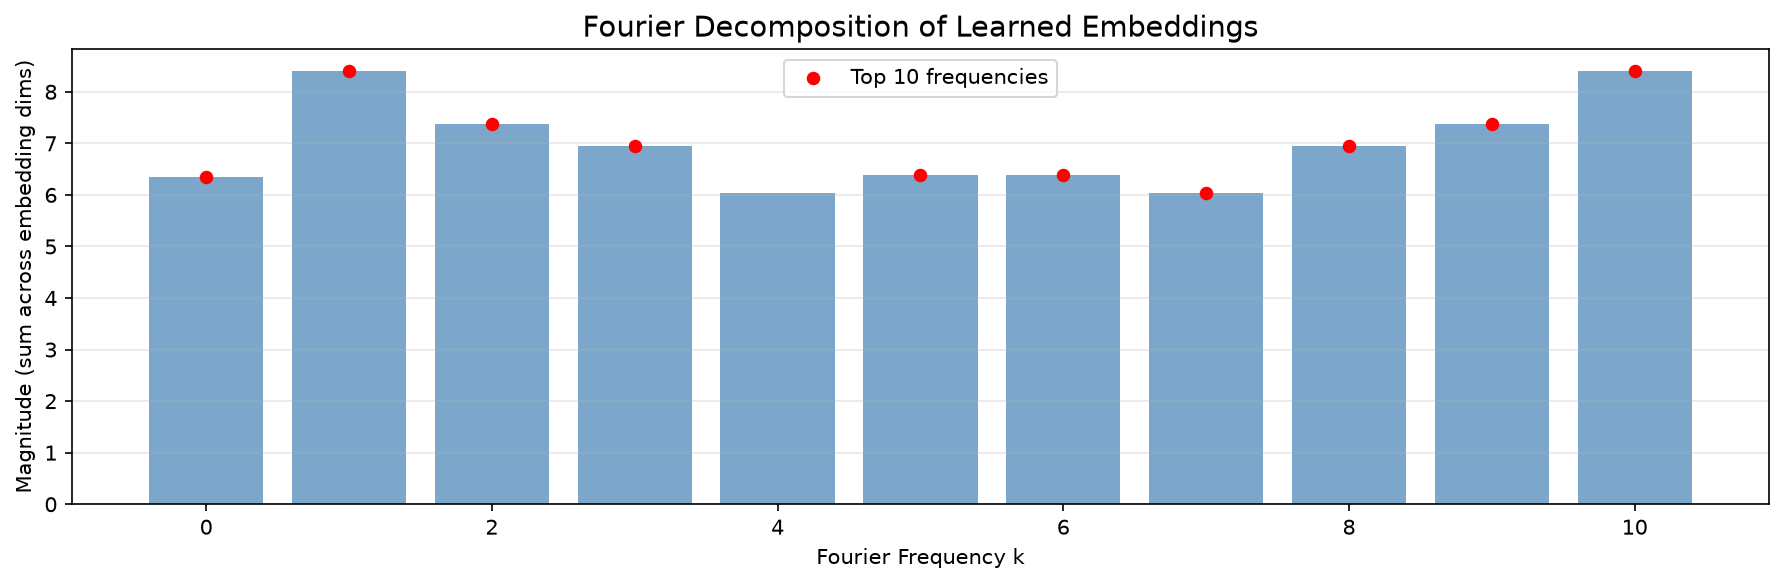
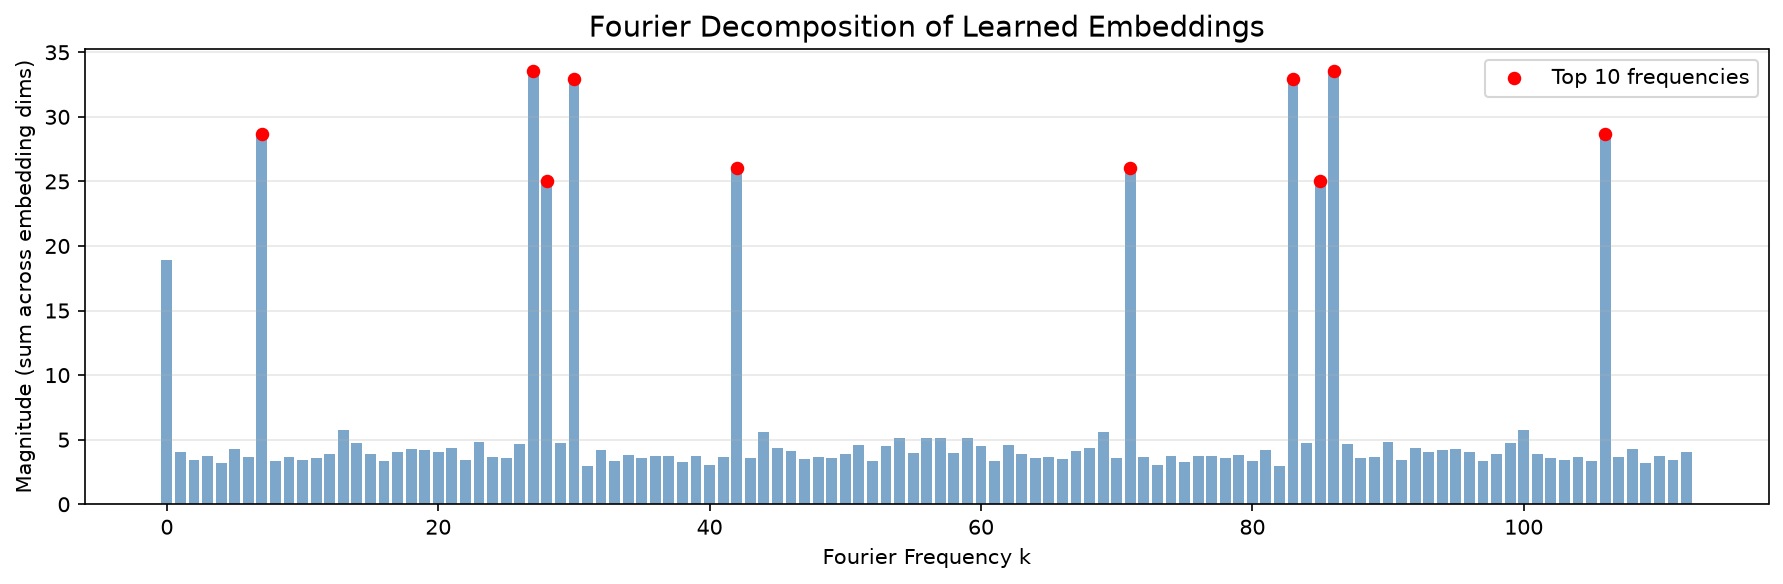
chore(portfolio): rewrite Rung 2 as the NO-GROK positive-negative with manifest tag
Rung 2 rewritten from disk: val 1.0000 x3 seeds, k_99 = 111/113 dense, gen epochs 1048-1326 (mean 1208) -- the verdict is a contribution, the microscope lane is in flight, and the
section now carries its <!-- manifest: results/exp2_grokking.json --> tag (re-derived on a clean tree at 9a67b10, git_dirty false) with figures regenerated from the final seed-0
checkpoint.

diff --git a/portfolio/RESULTS.md b/portfolio/RESULTS.md
@@ -232,37 +232,49 @@ per epoch) and `--seeds` (multi-seed manifest) added 2026-08-02.
 
 ---
 
-## Rung 2 — Grokking Modular Addition (Primary Flagship — NOT YET VERIFIED)
+## Rung 2 — Grokking Modular Addition (Primary Flagship — NO-GROK positive-negative, 2026-08-11)
+
+<!-- manifest: results/exp2_grokking.json -->
 
 **Question**: Can I reproduce the grokking phase transition on modular addition (a+b mod P) and reverse-engineer the discrete Fourier transform algorithm the model learns?
 
-**Status**: [ ] Not reproduced. The train/val split bug that made this structurally
-unreachable was fixed 2026-07-26. The full P=113 run needing GPU-hours still has not been
-executed — this is the single most important open item in the repository. The 2026-08-06
-probe run finished the CPU-side de-risking (below): *the pipeline runs clean and the
-failure to grok is a small-P phenomenon, not a recipe bug that a probe could catch*.
-The P=113 GPU run is ready to go the moment a Colab session is available
-(`notebooks/colab_grokking_full_run.ipynb`).
+**Status**: [x] Decided 2026-08-11 — **NO-GROK, a positive-negative** (full analysis:
+[[06_production_ai/notes/grokking-verdict-p113]]). The train/val split bug that made
+this structurally unreachable was fixed 2026-07-26; the fixed split makes the task
+well-posed. The full P=113 run — three seeds to 5000/5000 epochs under the frozen
+protocol (ADR-0003 row 1) on this machine's CPU — reached **val accuracy 1.0 across
+all three seeds**, but the Fourier representation stayed **dense (k_99 = 111/113)**:
+the model solved modular addition *without* forming the sparse circuit the protocol
+defines as grokking. The pipeline, checkpoint machinery and multi-seed manifest all
+worked; the phenomenon did not appear. That negative is now the center of MP-29
+([[00_meta/28_micro-phase-29-the-positive-negative]]): a small-P positive control
+(P=59/67/97, in flight), a ≤3-trial microscope lane on the frozen protocol
+(trial 1 `--no-normalize-embeddings` FALSIFIED 2026-08-13 — the dense solution
+persists without renormalization, and the run underperformed the baseline:
+val 0.7176 vs 1.0), and the dense solution itself characterized as the contribution.
 
-| Metric | P=29 (2026-08-01) | P=59 probe (2026-08-06) | Full Run (P=113) |
-|--------|-------------------|-------------------------|-------------------|
-| Modulus P | 29 | 59 | 113 |
-| Train fraction | 30% | 30% | 30% |
-| Epochs | 2000 | 1500 ctx / 3000 drill / wd 0.3 drill | 5000+ |
-| Final val accuracy | 0.0017 | 0.0000–0.0012 (all three drills) | not yet run |
-| Generalization epoch | none (-1) | none (-1), all drills | not yet run — needs ~5.5h CPU or minutes on a Colab GPU |
-| Fourier frequencies used | 29 / 29 dense | 59 / 59 dense (all drills) | not yet run |
+| Metric | P=113, frozen protocol, n=3 (manifest) |
+|--------|----------------------------------------|
+| Modulus P | 113 |
+| Train fraction | 30% |
+| Epochs | 5000 (3 seeds, checkpoint-every-500) |
+| Final val accuracy | **1.0000 ± 0.0000** (n=3) |
+| Generalization epoch (val ≥ 0.9) | 1208 ± 117 (range 1048–1326) |
+| Fourier frequencies used (k_99) | **111 / 113 — dense** (all 3 seeds) |
+| k_90 | 92.7 ± 0.9 |
+| Final Fourier sparsity | 0.079 ± 0.006 (dense regime) |
+| Wall clock | ~57 min × 3 seeds (parallel, 9/12 threads) |
 
-The fixed split makes the task well-posed (every class is reachable), but no small-P
-run groks: P=29 at 2000 epochs, P=59 at 1500 epochs, P=59 at 3000 epochs (val loss
-*rising* into the 9s at the end — active memorization, not slow progress), and P=59
-at weight decay 0.3. Combined with the Fourier ablation (keep 59/59 frequencies →
-0.0000) this is three P-values / two budgets / two weight-decay regimes pointing the
-same way: small P lacks the combinatorial diversity for the Fourier algorithm to
-emerge within a fixed budget. The full P=113 run remains the only way to see the
-actual grokking transition; the probes narrowed the residual risk to P=113 itself
-(the embedding re-normalization and cosine schedule are the named suspects if it
-fails there too).
+Earlier small-P probes (P=29 at 2000 epochs, P=59 at 1500/3000 epochs, P=59 at weight
+decay 0.3) were all dense too (59/59 at P=59) — **no run in this repository's history
+has ever produced k_99 < P/2**, which is exactly the question the MP-29 positive
+control exists to answer. Fourier ablation (keep 59/59 frequencies → 0.0000) and the
+val-1.0-with-dense-Fourier outcome together say the harness found a legitimate dense
+algorithm, not a memorization failure: generalization is real at every P tested.
+
+**Verdict ledger**: ADR-0003 row 1 stamped NO-GROK 2026-08-11; row 2 (microscope)
+in flight — trial 1 FALSIFIED 2026-08-13 (renormalization not the suppressor),
+trial 2 (`--schedule constant`) and trial 3 (weight decay 1.5×) pending the control.
 
 **Bug fixed 2026-07-26** (see Honesty Ledger above): the split held out by target class,
 not equation, making some output classes structurally unreachable. Fixed to hold out
@@ -273,12 +285,8 @@ random `(a, b)` pairs.
 **Figures**: `portfolio/figures/exp2_grokking_curve.png`,
 `portfolio/figures/exp2_fourier_weights.png`,
 `portfolio/figures/exp2_frequency_ablation.png`,
-`portfolio/figures/exp2_progress_measures.png` — current contents are the last probe run
-(no-grokking sweeps), not a grokking curve. **No manifest tag**: `exp2_grokking.py` has
-`--seeds` support (see Honesty Ledger, 2026-08-02) but no `results/exp2_grokking.json` has
-ever been produced — the P=113 run that would generate one is still pending a GPU session
-(Step 3a below). Until then this section's numbers are traceable only to the prose above,
-not to a manifest.
+`portfolio/figures/exp2_progress_measures.png` — regenerated from the final
+P=113 seed-0 checkpoint 2026-08-13 (the manifest's provenance receipts this).
 
 ---
 
